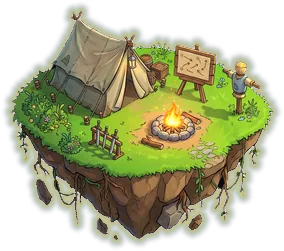
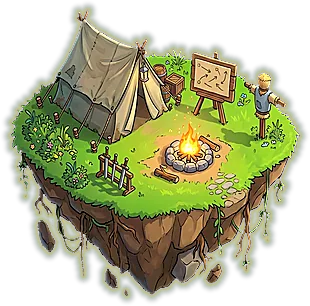
PR #89 — v0.49.0: hub com os 10 prédios refeitos (#89)

Changed region(s): [[0.0282, 0.0279, 0.9859, 0.9761], [0.507, 0.8367, 0.5352, 0.8645], [0.4225, 0.4741, 0.4507, 0.502]]

diff --git a/src/ui/hubLayers.ts b/src/ui/hubLayers.ts
@@ -37,94 +37,94 @@ export const HUB_BOXES: Record<string, [number, number, number, number]> = {
   492
  ],
  "03-treinar": [
-  1498,
-  618,
-  1751,
-  892
+  1442,
+  537,
+  1722,
+  837
  ],
  "03-treinar-glow": [
-  1487,
-  608,
-  1762,
-  902
+  1432,
+  527,
+  1732,
+  847
  ],
  "03-treinar-locked": [
-  1498,
-  618,
-  1751,
-  892
+  1442,
+  537,
+  1722,
+  837
  ],
  "04-loja": [
-  1602,
-  198,
-  1838,
-  491
+  1577,
+  142,
+  1841,
+  426
  ],
  "04-loja-glow": [
-  1589,
-  185,
+  1567,
+  132,
   1851,
-  502
+  430
  ],
  "04-loja-locked": [
-  1602,
-  198,
-  1838,
-  491
+  1577,
+  142,
+  1841,
+  426
  ],
  "05-invocacao": [
-  1034,
-  732,
-  1306,
-  978
+  1022,
+  692,
+  1322,
+  1008
  ],
  "05-invocacao-glow": [
-  1023,
-  721,
-  1317,
-  989
+  1012,
+  682,
+  1332,
+  1018
  ],
  "05-invocacao-locked": [
-  1034,
-  732,
-  1306,
-  978
+  1022,
+  692,
+  1322,
+  1008
  ],
  "06-inventario": [
-  315,
-  618,
-  563,
-  870
+  242,
+  622,
+  486,
+  864
  ],
  "06-inventario-glow": [
-  303,
-  605,
-  575,
-  883
+  233,
+  612,
+  495,
+  873
  ],
  "06-inventario-locked": [
-  315,
-  618,
-  563,
-  870
+  242,
+  622,
+  486,
+  864
  ],
  "07-tutorial": [
-  574,
-  480,
-  836,
-  709
+  562,
+  452,
+  852,
+  738
  ],
  "07-tutorial-glow": [
-  563,
-  469,
-  847,
-  720
+  552,
+  442,
+  862,
+  748
  ],
  "07-tutorial-locked": [
-  574,
-  480,
-  836,
-  709
+  562,
+  452,
+  852,
+  738
  ],
  "08-torre": [
   238,
@@ -163,93 +163,93 @@ export const HUB_BOXES: Record<string, [number, number, number, number]> = {
   414
  ],
  "10-arena": [
-  1823,
-  568,
-  2087,
-  852
+  1792,
+  447,
+  2036,
+  709
  ],
  "10-arena-glow": [
-  1816,
-  561,
-  2094,
-  859
+  1782,
+  437,
+  2046,
+  719
  ],
  "10-arena-locked": [
-  1823,
-  568,
-  2087,
-  852
+  1792,
+  447,
+  2036,
+  709
  ],
  "11-masmorra-dupla": [
-  717,
-  739,
-  962,
-  991
+  702,
+  727,
+  982,
+  1009
  ],
  "11-masmorra-dupla-glow": [
-  706,
-  728,
-  973,
-  1001
+  692,
+  717,
+  992,
+  1019
  ],
  "11-masmorra-dupla-locked": [
-  717,
-  739,
-  962,
-  991
+  702,
+  727,
+  982,
+  1009
  ],
  "12-desejos": [
-  812,
-  124,
-  1028,
-  355
+  797,
+  117,
+  1057,
+  379
  ],
  "12-desejos-glow": [
-  801,
-  113,
-  1039,
-  366
+  787,
+  107,
+  1067,
+  388
  ],
  "12-desejos-locked": [
-  812,
-  124,
-  1028,
-  355
+  797,
+  117,
+  1057,
+  379
  ],
  "13-eventos": [
-  1309,
-  124,
-  1531,
-  345
+  1302,
+  117,
+  1554,
+  369
  ],
  "13-eventos-glow": [
-  1298,
-  113,
-  1542,
-  356
+  1293,
+  107,
+  1564,
+  379
  ],
  "13-eventos-locked": [
-  1309,
-  124,
-  1531,
-  345
+  1302,
+  117,
+  1554,
+  369
  ],
  "14-mina": [
-  1919,
-  784,
-  2111,
-  965
+  1902,
+  767,
+  2124,
+  987
  ],
  "14-mina-glow": [
-  1908,
-  773,
-  2121,
-  976
+  1892,
+  758,
+  2134,
+  997
  ],
  "14-mina-locked": [
-  1919,
-  784,
-  2111,
-  965
+  1902,
+  767,
+  2124,
+  987
  ]
 };

diff --git a/src/app/hubConfig.ts b/src/app/hubConfig.ts
@@ -23,20 +23,20 @@ export interface HubSpot {
 export const HUB_SPOTS: HubSpot[] = [
   { key: '01-aventura', label: 'Aventura', nav: 'adventure' },
   { key: '02-colecao', label: 'Coleção & Baralho', nav: 'collection' },
-  { key: '03-treinar', label: 'Treinar & Despertar', nav: 'train', dy: 30 },
+  { key: '03-treinar', label: 'Treinar & Despertar', nav: 'train', dx: 20, dy: 20 },
   { key: '04-loja', label: 'Loja', nav: 'shop' },
   // o Banner fica no topo da Loja (não há tela própria de Banner)
-  { key: '05-invocacao', label: 'Altar de Invocação', nav: 'shop', dy: 55 },
-  { key: '06-inventario', label: 'Inventário', nav: 'inventory', dx: -90, dy: 60 },
+  { key: '05-invocacao', label: 'Altar de Invocação', nav: 'shop', dy: 40 },
+  { key: '06-inventario', label: 'Inventário', nav: 'inventory' },
   // o tutorial guiado só roda uma vez; o Acampamento abre o "Como jogar"
-  { key: '07-tutorial', label: 'Acampamento do Iniciante', nav: 'help', dx: -10, dy: 40 },
+  { key: '07-tutorial', label: 'Acampamento do Iniciante', nav: 'help', dx: -20 },
   { key: '08-torre', label: 'Torre', nav: null, soon: 'Suba andares cada vez mais difíceis.' },
   { key: '09-invasao', label: 'Invasão de Chefe', nav: null, soon: 'Chefes gigantes invadem o mundo por tempo limitado.' },
-  { key: '10-arena', label: 'Arena', nav: null, soon: 'Lute contra baralhos de outros jogadores controlados pela IA.' },
-  { key: '11-masmorra-dupla', label: 'Masmorra em Dupla', nav: null, soon: 'Explore masmorras com um parceiro.', dx: -30, dy: 50 },
+  { key: '10-arena', label: 'Arena', nav: null, soon: 'Lute contra baralhos de outros jogadores controlados pela IA.', dy: 60 },
+  { key: '11-masmorra-dupla', label: 'Masmorra em Dupla', nav: null, soon: 'Explore masmorras com um parceiro.', dx: -40, dy: 40 },
   { key: '12-desejos', label: 'Santuário dos 7 Diamantes', nav: null, soon: 'Reúna os 7 diamantes e faça um desejo.' },
   { key: '13-eventos', label: 'Praça de Eventos', nav: null, soon: 'Eventos especiais com prêmios por tempo limitado.' },
-  { key: '14-mina', label: 'Mina de Cristais', nav: null, pad: 20, dx: 150, dy: 70, tagLeft: true, soon: 'Recolha cristais com o tempo.' },
+  { key: '14-mina', label: 'Mina de Cristais', nav: null, pad: 20, dx: 60, dy: 40, tagLeft: true, soon: 'Recolha cristais com o tempo.' },
 ];
 
 export const HUB_W = 2340;

diff --git a/scripts/hub/build_hub.py b/scripts/hub/build_hub.py
@@ -1,7 +1,8 @@
 """Gera as camadas do hub (céu + prédios recortados pelo contorno) em WebP e src/ui/hubLayers.ts.
 
 v0.46.0: um pacote só.  v0.48.0: dois pacotes —
-  python3 scripts/hub/build_hub.py <pacote antigo> [<pacote novo>]
+  python3 scripts/hub/build_hub.py <pacote antigo> [<pacote novo>] [<pacote refeito>]
+v0.49.0: o pacote refeito (3º) traz os 10 prédios REDO completos (normal + cadeado + brilho) e tem prioridade.
 Do pacote novo entram (normal + cadeado + brilho) só os prédios em NEW (os que cresceram certo).
 Para os prédios mantidos do pacote antigo que ficam liberados, o BRILHO vem do pacote novo (mais forte),
 reposicionado/escalado para casar com a arte antiga. Cadeado e normal desses continuam os antigos.
@@ -12,6 +13,8 @@ from PIL import Image
 
 old = sys.argv[1]
 new = sys.argv[2] if len(sys.argv) > 2 else None
+redo = sys.argv[3] if len(sys.argv) > 3 else None
+REDO = {'03-treinar', '04-loja', '05-invocacao', '06-inventario', '07-tutorial', '10-arena', '11-masmorra-dupla', '12-desejos', '13-eventos', '14-mina'}
 out = 'src/assets/hub'; os.makedirs(out, exist_ok=True)
 NEW = {'05-invocacao', '07-tutorial', '11-masmorra-dupla', '12-desejos', '13-eventos', '14-mina'}
 GLOW_FROM_NEW = {'01-aventura', '02-colecao', '03-treinar', '04-loja', '06-inventario'}
@@ -46,6 +49,12 @@ if new:
         boxes[f'{k}-glow'] = [x0, y0, x0 + w, y0 + h]
     for c in ('nuvem-a', 'nevoa'):
         Image.open(f'{new}/cenario/hub-anim-{c}.png').convert('RGBA').save(f'{out}/cena-{c}.webp', quality=80, method=6)
+
+if redo:
+    rl = f'{redo}/camadas_2340x1080'
+    for k in REDO:
+        for suf in ('', '-locked', '-glow'):
+            put(f'{rl}/hub-{k}{suf}.png', f'{k}{suf}')
 
 with open('src/ui/hubLayers.ts', 'w') as fh:
     fh.write('// Gerado por scripts/hub/build_hub.py — caixas (x0, y0, x1, y1) no mapa 2340×1080.\n')

diff --git a/CHANGELOG.md b/CHANGELOG.md
@@ -2,6 +2,12 @@
 
 Toda PR deve adicionar uma entrada aqui e atualizar o [REGRAS.md](REGRAS.md). Horários em Brasília (UTC−3).
 
+## [0.49.0] — 30/10/2026 · Hub com os 10 prédios refeitos
+- **Arte refeita (normal, com cadeado e brilho):** Treinar & Despertar, Loja, Altar de Invocação (desenho novo), Inventário, Acampamento do Iniciante, Arena, Masmorra em Dupla, Santuário dos 7 Diamantes, Praça de Eventos e Mina de Cristais.
+- **Mantidos:** Aventura, Coleção & Baralho, Torre e Invasão de Chefe (arte de antes; Aventura e Coleção com o brilho forte da v0.48).
+- Posições reajustadas para os prédios não se encostarem; nada esticado.
+- Instalação: `python3 scripts/hub/build_hub.py <pacote antigo> <pacote novo> <pacote refeito>`.
+
 ## [0.48.0] — 29/10/2026 · Hub com a arte nova do Gemini (o que veio certo) e nuvens em movimento
 - **Prédios novos (maiores e com cadeado menor):** Altar de Invocação, Acampamento do Iniciante, Masmorra em Dupla, Santuário dos 7 Diamantes, Praça de Eventos e Mina de Cristais. Esses usam a arte nova completa (normal, com cadeado e brilho).
 - **Mantidos com a arte de antes** (a versão nova veio menor que o pedido): Loja, Inventário, Arena, Treinar & Despertar, Aventura, Coleção & Baralho, Torre e Invasão de Chefe. Para os liberados entre eles, o **brilho ao tocar** veio do pacote novo (mais forte), ajustado ao tamanho da arte antiga. Os cadeados da Torre, Invasão e Arena continuam os antigos, para não encolher esses prédios.

diff --git a/REGRAS.md b/REGRAS.md
@@ -1240,3 +1240,6 @@ Política da Loja no simulador: quando um personagem está com a barra cheia e a
 - O hub mistura dois pacotes de arte: prédios **novos** (05 Altar, 07 Acampamento, 11 Masmorra, 12 Santuário, 13 Eventos, 14 Mina) e prédios **antigos** (01, 02, 03, 04, 06, 08, 09, 10) até o Gemini refazer os que vieram menores. O brilho dos antigos liberados vem do pacote novo, ajustado ao tamanho antigo.
 - Nunca esticar arte de prédio para aumentar: só trocar quando a arte nova vier no tamanho certo.
 - **Cenário animado:** nuvens (290 s por volta) e névoa (470 s) atrás dos prédios, só com `transform`; pausam com janela aberta e com "reduzir movimento". Caminhante, dragão, faíscas de ki e quadros de animação dos prédios ainda **não** estão no jogo.
+
+## Hub com 10 prédios refeitos (v0.49.0)
+- Arte do hub: 03, 04, 05, 06, 07, 10, 11, 12, 13 e 14 vêm do pacote refeito (normal + cadeado + brilho); 01, 02, 08 e 09 continuam do pacote original (01 e 02 com o brilho do pacote novo). Posições em `src/app/hubConfig.ts` (dx/dy).
